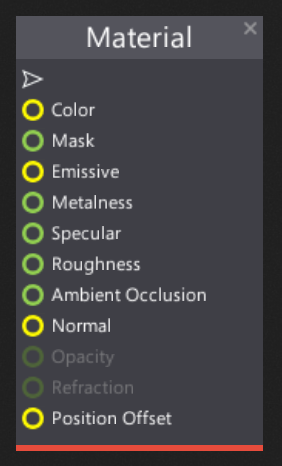
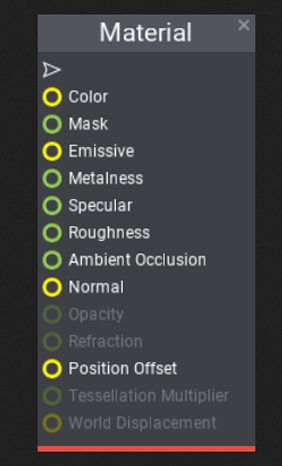
Add Tessellation and Displacement docs

Changed region(s): [[0.0567, 0.03, 0.9362, 0.9914]]

diff --git a/manual/graphics/materials/material-properties/index.md b/manual/graphics/materials/material-properties/index.md
@@ -17,7 +17,7 @@ This page breaks down all the available material properties. These options are a
 
 ## Transparency
 
-![General](../media/properties-transparency.png)
+![Transparency](../media/properties-transparency.png)
 
 | Property | Description |
 |--------|--------|
@@ -27,20 +27,29 @@ This page breaks down all the available material properties. These options are a
 | **Disable Distortion** | If checked, disables distortion effect when rendering material. |
 | **Opacity Threshold** | Controls opacity values clipping point. |
 
+## Tessellation
+
+![Tessellation](../media/properties-tessellation.png)
+
+| Property | Description |
+|--------|--------|
+| **Tessellation Mode** | Mesh surface tessellation method. Applies only to materials with *Domain* set to *Surface*. Possible options: <table><tbody><tr><th>Option</th><th>Description</th></tr><tr><td>**None**</td><td>No tessellation.</td></tr><tr><td>**Flat**</td><td>Flat tessellation. Also known as dicing tessellation.</td></tr><tr><td>**PointNormal**</td><td>Point normal tessellation.</td></tr><tr><td>**Phong**</td><td>Geometric version of Phong normal interpolation, not applied on normals but on the vertex positions.</td></tr></tbody></table>|
+| **Max Tessellation Factor** | Maximum triangle tessellation factor. Default value is `15`. Increase it to unlock even higher tessellation. Higher values reduce rendering performance. |
+
 ## Miscellaneous
 
-![General](../media/properties-misc.png)
+![Miscellaneous](../media/properties-misc.png)
 
 | Property | Description |
 |--------|--------|
 | **Disable Depth Write** | If checked, disables depth buffer write when rendering material.|
 | **Mask Threshold** | Controls mask values clipping point. |
 | **Decal Blending Mode** | Specifies decal material blending mode. Applies only to materials with *Domain* set to *Decal*. Possible options: <table><tbody><tr><th>Option</th><th>Description</th></tr><tr><td>**Translucent**</td><td>Decal will be fully blended with the material surface.</td></tr><tr><td>**Stain**</td><td>Decal color will be blended with the material surface color (using multiplication).</td></tr><tr><td>**Normal**</td><td>Decal will blend the normal vector only.</td></tr><tr><td>**Emissive**</td><td>Decal will apply the emissive light only.</td></tr></tbody></table>|
-| **PostFx Location** | Specifies when render post effect material. Applies only to materials with *Domain* set to *Post Process*.Possible options: <table><tbody><tr><th>Option</th><th>Description</th></tr><tr><td>**After Post Processing Pass**</td><td>Render material after post processing pass using *LDR* input frame.</td></tr><tr><td>**Before Post Processing Pass**</td><td>Render material before post processing pass using *HDR* input frame.</td></tr><tr><td>**Before Forward Pass**</td><td>Render material before forward pass but after *GBuffer* with *HDR* input frame.</td></tr><tr><td>**After Custom Post Effects**</td><td>Render material after custom post effects (scripted).</td></tr></tbody></table>|
+| **PostFx Location** | Specifies when render post effect material. Applies only to materials with *Domain* set to *Post Process*.Possible options: <table><tbody><tr><th>Option</th><th>Description</th></tr><tr><td>**After Post Processing Pass**</td><td>Render material after post processing pass using *LDR* input frame.</td></tr><tr><td>**Before Post Processing Pass**</td><td>Render material before post processing pass using *HDR* input frame.</td></tr><tr><td>**Before Forward Pass**</td><td>Render material before forward pass but after *GBuffer* with *HDR* input frame.</td></tr><tr><td>**After Custom Post Effects**</td><td>Render material after custom post effects (scripted).</td></tr><tr><td>**Before Reflections Pass **</td><td>Render material before Reflections pass. After the Light pass. Can be used to implement a custom light types that accumulate lighting to the light buffer.</td></tr><tr><td>**After Anti-Aliasing Pass **</td><td>Render material The after AA filter pass. Rendering is done to the output backbuffer.</td></tr></tbody></table>|
 
 ## Parameters
 
-![General](../media/properties-params.png)
+![Parameters](../media/properties-params.png)
 
 Every material contains a collection of custom parameters. Those parameters can be accessed from the game logic code or be overriden using [Material Instances](../instanced-materials/index.md).
 

diff --git a/manual/release-notes/0_2/index.md b/manual/release-notes/0_2/index.md
@@ -16,6 +16,12 @@ To learn more about prefabs see the related documentation [here](../../get-start
 
 Now, Flax supports **Game Plugins** and **Editor Plugins**. Developers can also easly include .Net libraries to be used in game scripts. Flax plugins system allows adding custom functionalities and extending engine features. See the dedicated page [here](../../scripting/plugins/index.md) to learn more about creating and using plugins.
 
+### Tessellation and Displacement
+
+![Tessellation and Displacement](media/tessellation_support.png)
+
+The newest Flax version supports tessellated materials and displacement maps. Using this feature can help to achieve realistic looking terrain or water surfaces.
+
 ### Texture arrays and volume textures in materials
 
 New material parameter types and improve render targets C# API enable developers to create and use 3D textures and texture arrays. Also, `GPUContext` has been updated to support rendering PostFx material to a single texture slice. New C# API allows creating advanced visual effects for your games such as volumetric clouds or water flow simulations on a GPU.

diff --git a/manual/graphics/materials/material-inputs.md b/manual/graphics/materials/material-inputs.md
@@ -80,3 +80,15 @@ The default value is 1.
 The **Position Offset** input allows moving rendered geometry vertices in world space. This is especially useful for making objects move, change shape, rotate or morph. It can be also used for ambient animation.
 
 ![Material Position Offset](media/material-vertex-offset.png)
+
+## Tessellation Multiplier
+
+The **Tessellation Multiplier** input controls the amount of tessellation along the surface geometry. It allows more detail to be added where needed. As with World Displacement, for this to be enabled, the Tessellation Mode property must be set to something other than None.
+
+![Material Tessellation Multiplier](media/material-tessellation-multiplier.png)
+
+## World Displacement
+
+The **World Displacement** input works very much like Position Offset, but it uses Tessellation vertices rather than the base vertices of the mesh. In order for this to be enabled, the Tessellation Mode property must be set to something other than None.
+
+![Material World Displacement](media/material-world-displacement.png)
